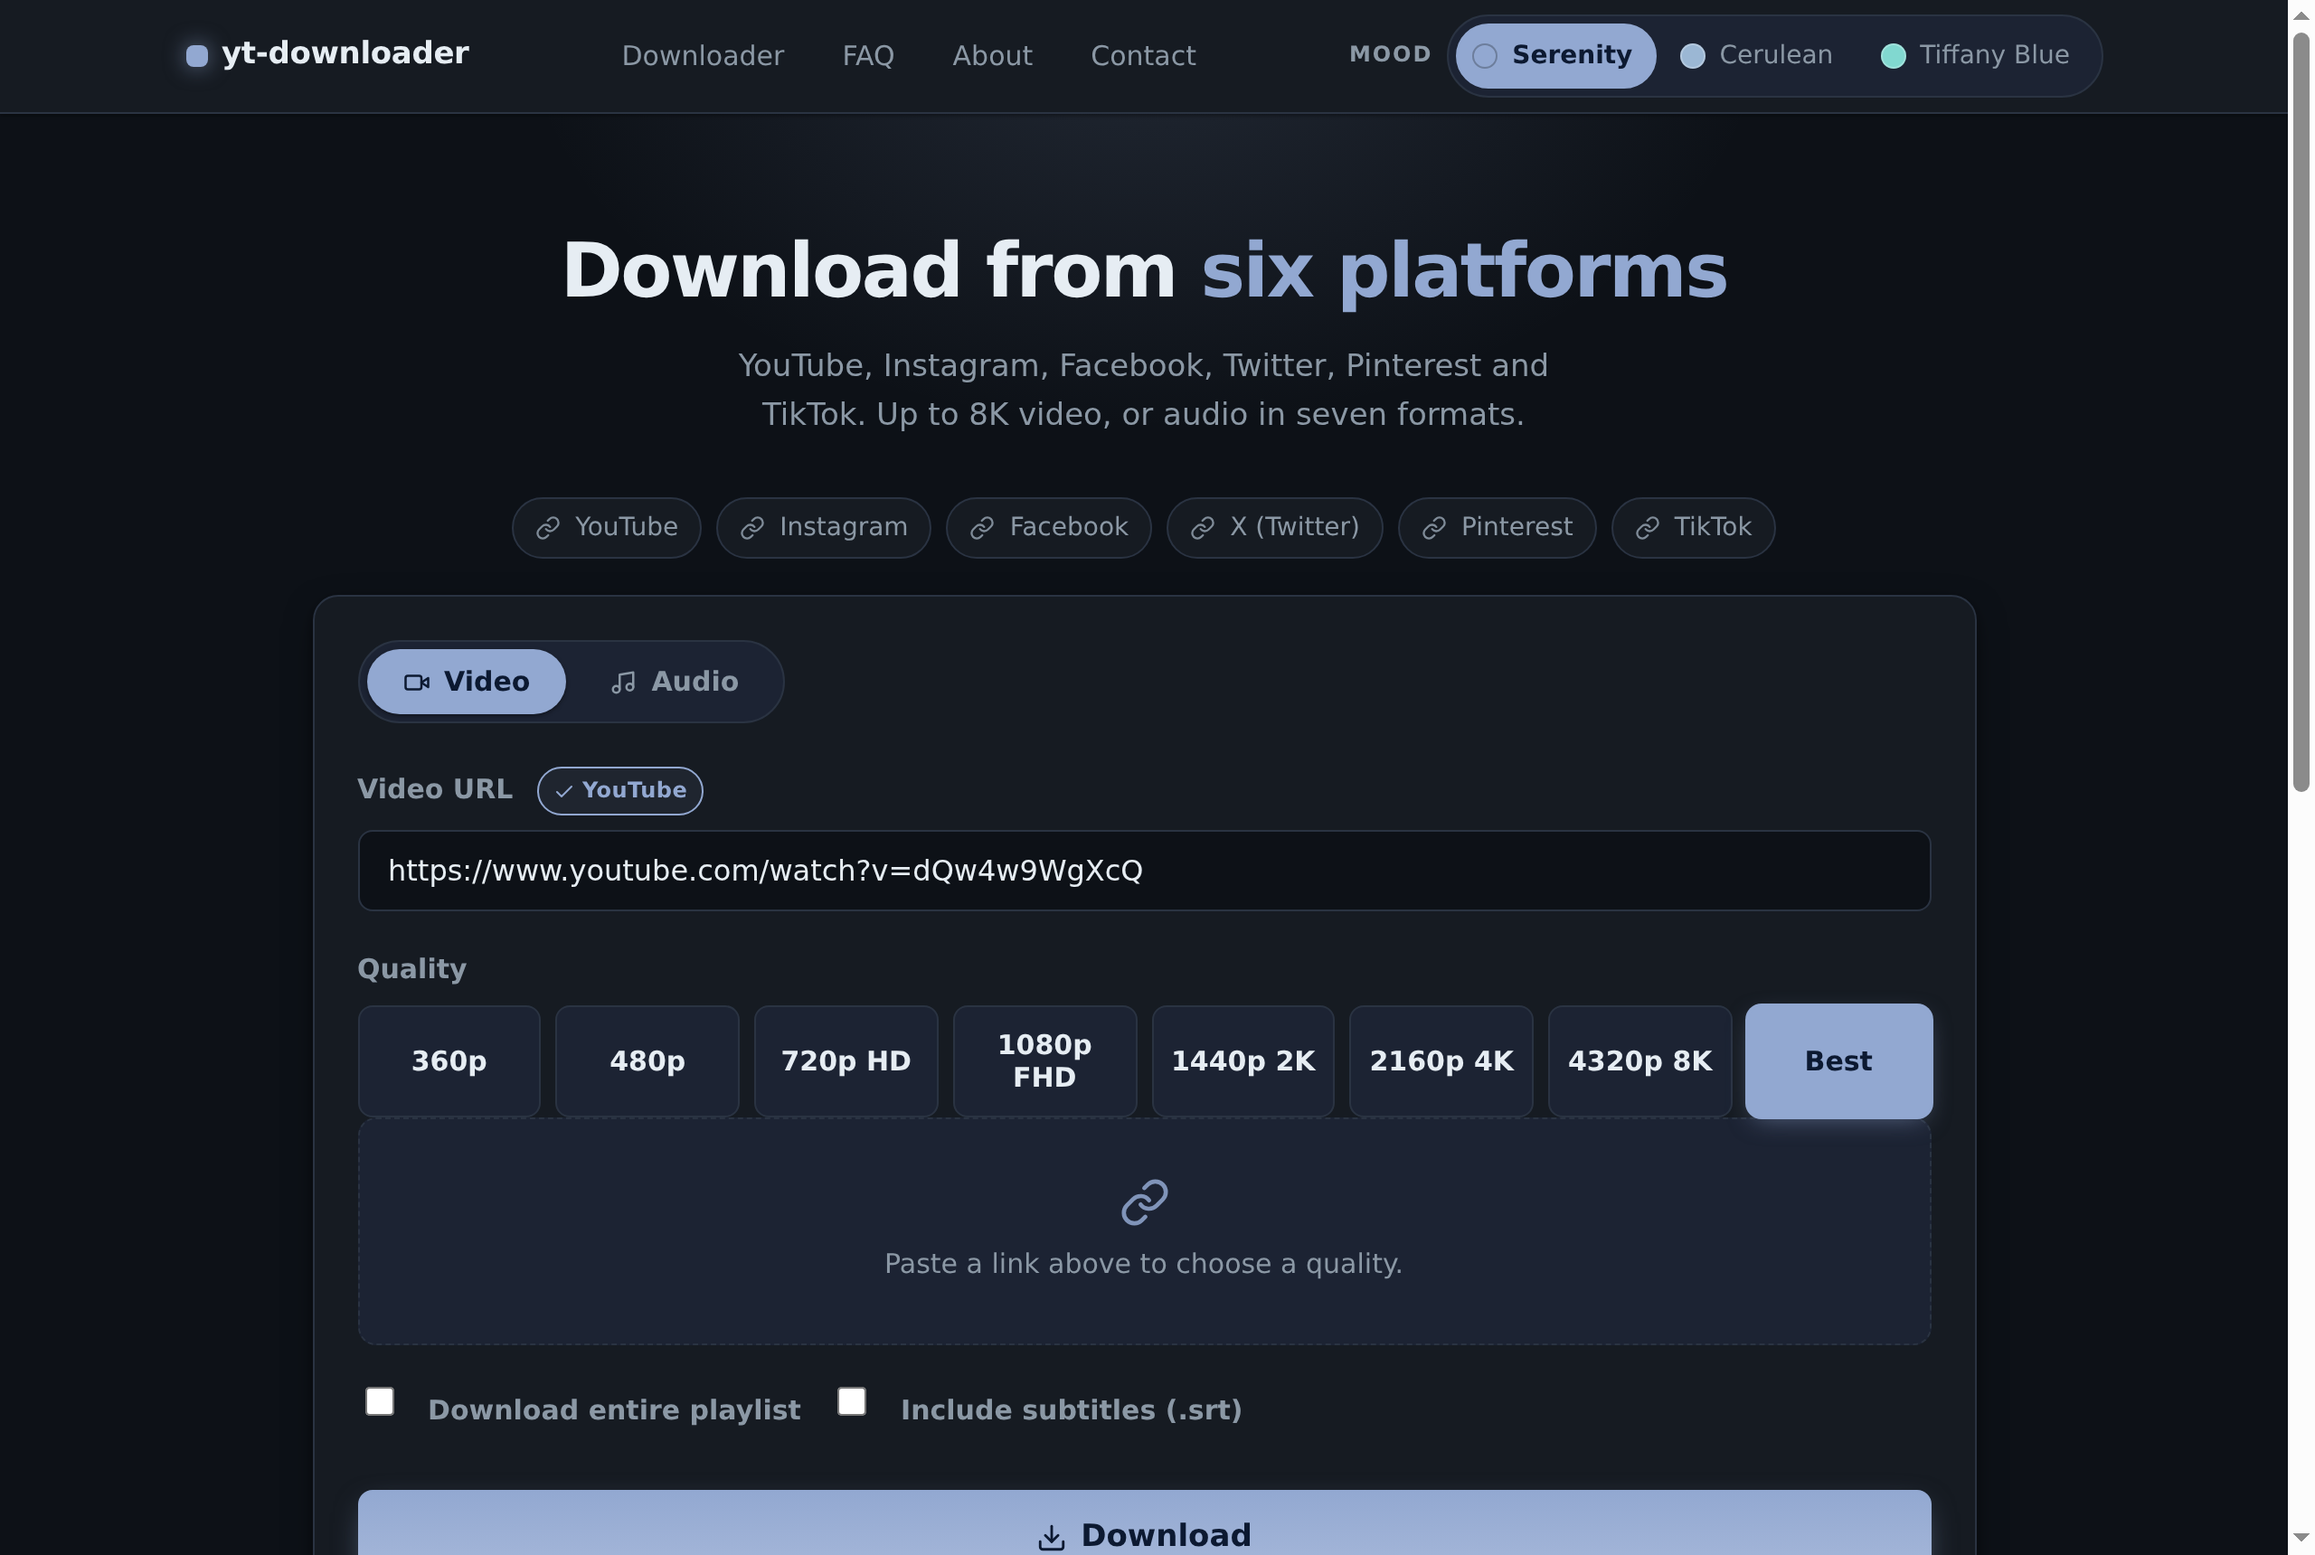
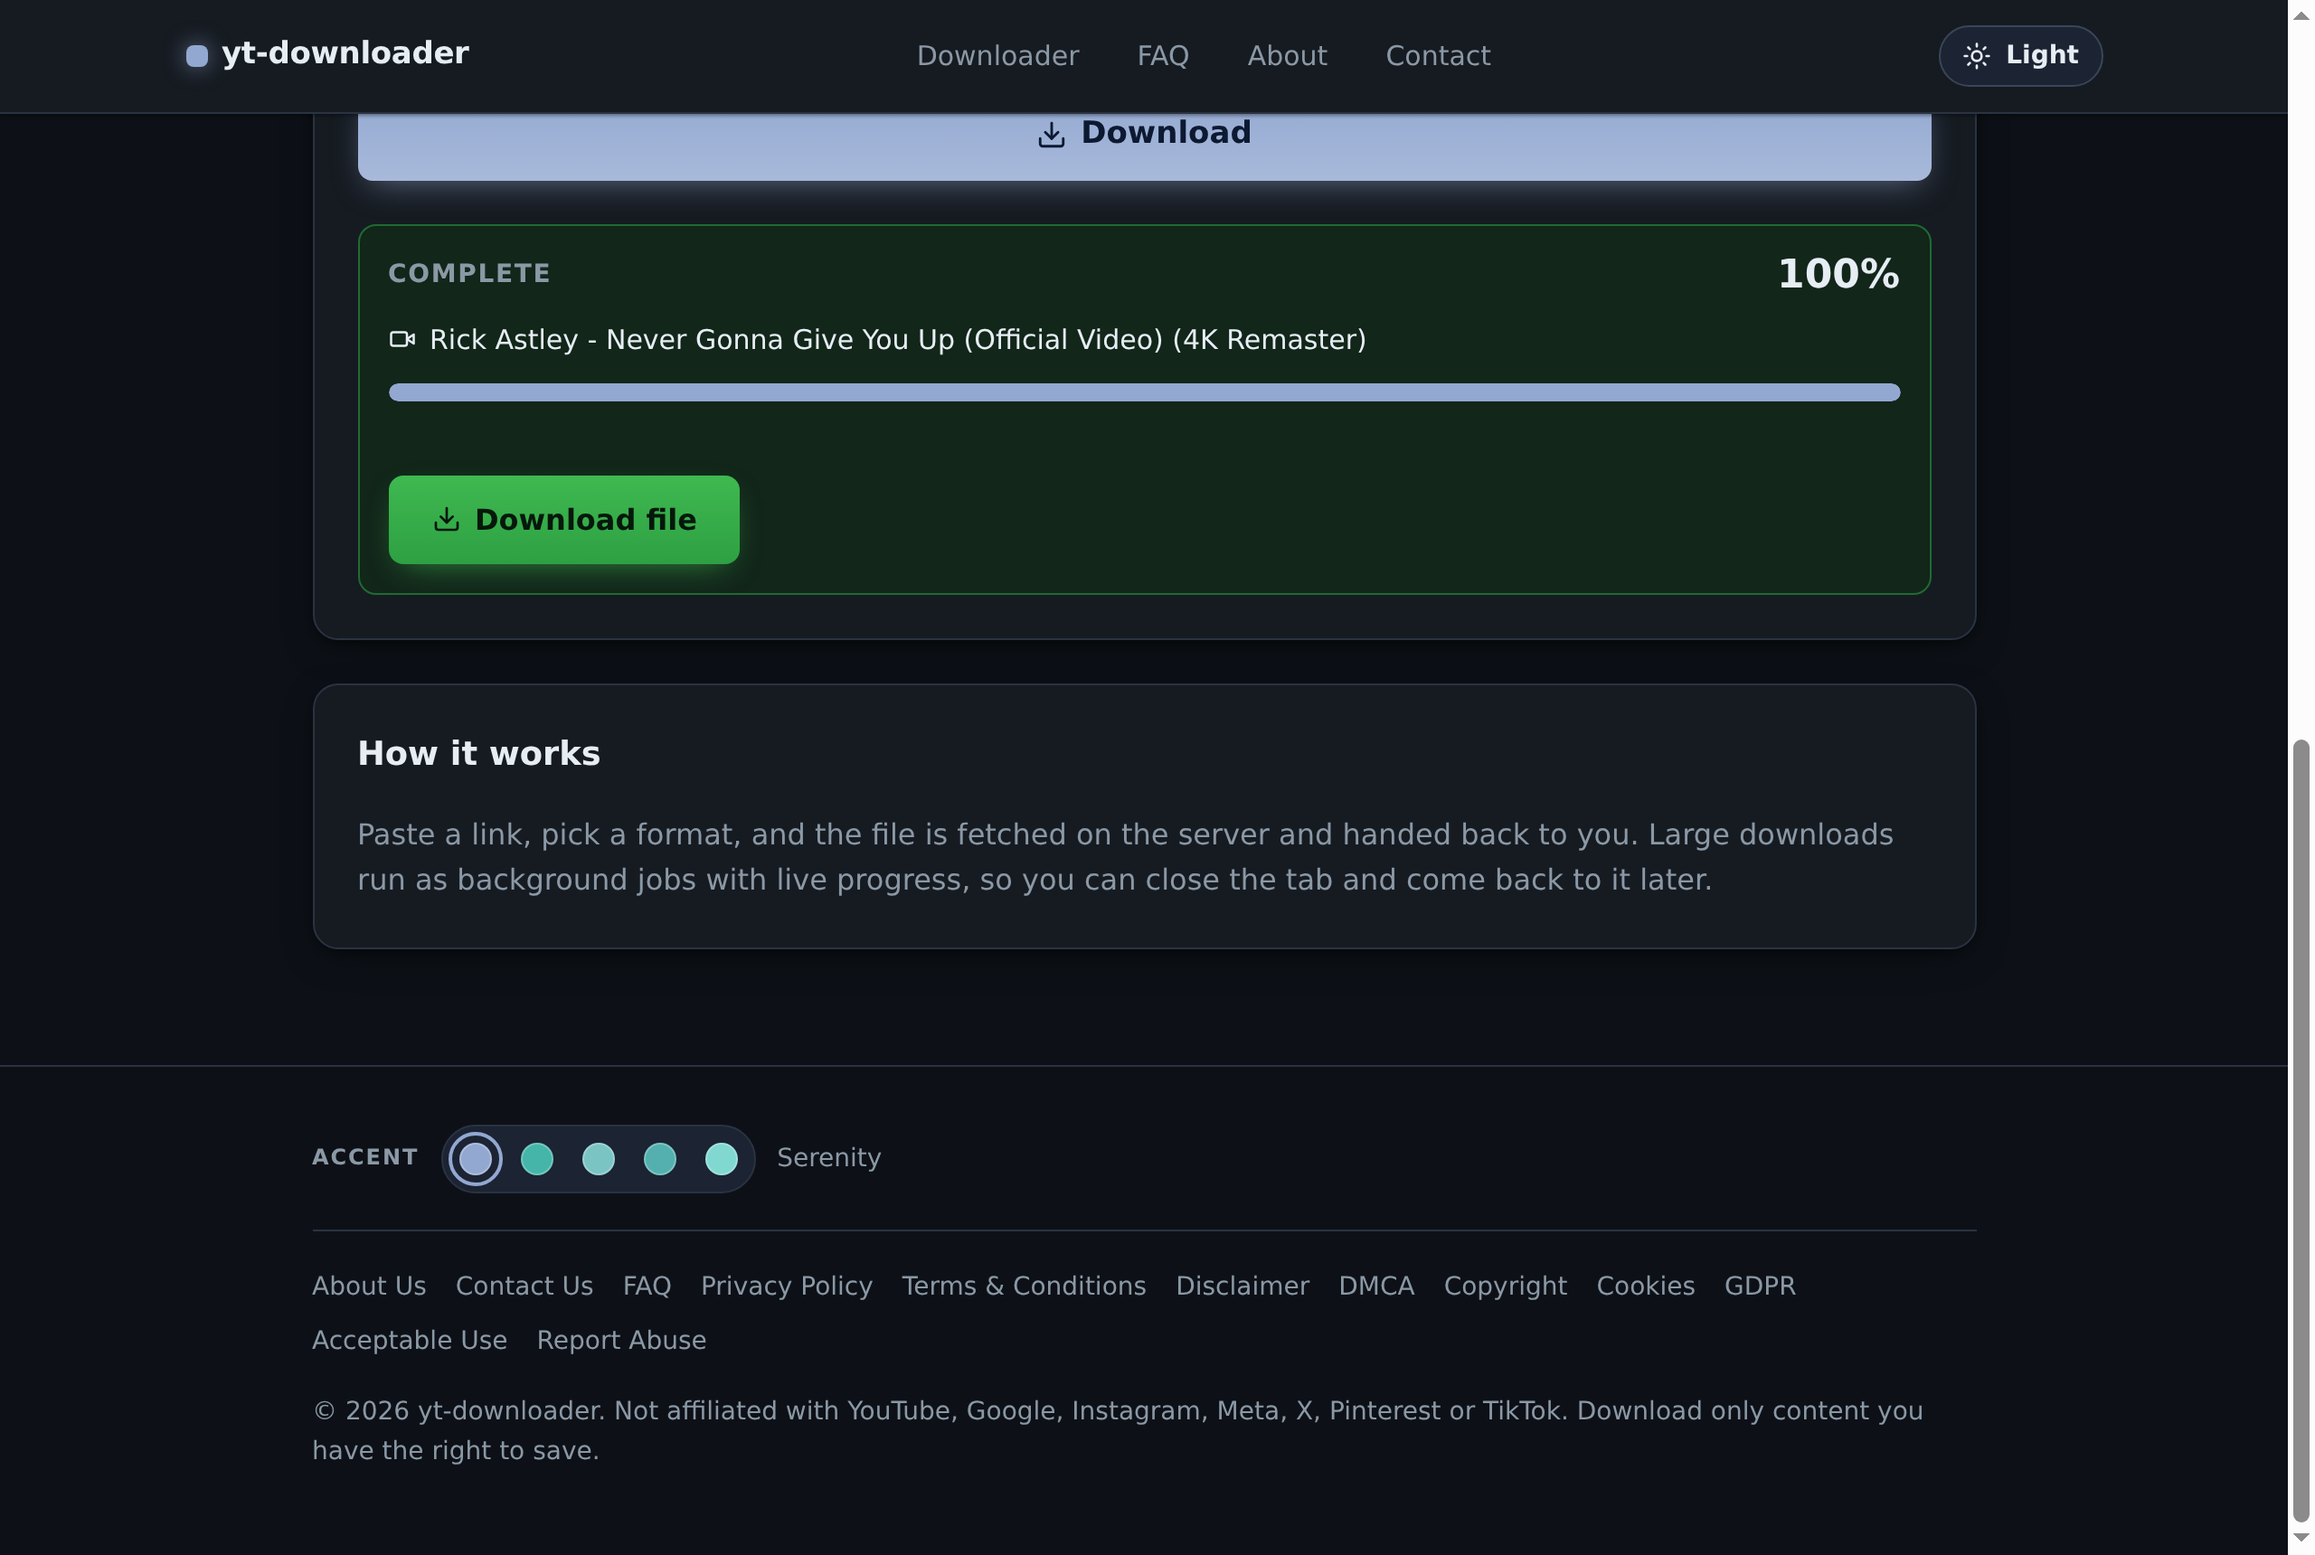
Recapture README screenshots and link the live preview
The four committed screenshots predated the ad-slot removal, the swatch
picker and the footer move, so they no longer matched the UI. Recapture
all of them at the documented 2560x1720 (1280x860 @2x) and add a fifth
showing the footer accent picker, which nothing illustrated before.

The completion shot is a genuine end-to-end run: with aria2c installed the
real Redis worker fetches the file, so the progress panel reaches
COMPLETE 100% and hands back a real /api/file/{task_id} link.

Also link the live preview URL in the intro, fix the stale 'three brand
palettes' line, and bump the test count to 146.

diff --git a/README.md b/README.md
@@ -1,7 +1,7 @@
 # YT Downloader
 
 [![CI](https://github.com/NSKWeb/yt-downloader/actions/workflows/ci.yml/badge.svg)](https://github.com/NSKWeb/yt-downloader/actions/workflows/ci.yml)
-[![Tests](https://img.shields.io/badge/tests-140%20passing-brightgreen)](backend/tests)
+[![Tests](https://img.shields.io/badge/tests-146%20passing-brightgreen)](backend/tests)
 [![Python](https://img.shields.io/badge/python-3.12-blue)](backend/requirements.txt)
 [![Licence](https://img.shields.io/badge/licence-MIT-green)](LICENSE)
 
@@ -10,11 +10,17 @@ get the file.
 
 Supported platforms: **YouTube, Instagram, Facebook, Twitter/X, Pinterest, TikTok.**
 
+**Live preview:** <https://work-1-dpivlddieshksnav.prod-runtime.all-hands.dev/>
+— the frontend with the accent picker and dark/light toggle running against the
+live API. It is an ephemeral preview host, so treat it as a demo rather than a
+stable deployment; the screenshots below are captures of the same build.
+
 ![The downloader interface, ready for a URL](docs/img/screenshot-home.png)
 
 *The home page. The Video / Audio / Image tabs are rendered from the
 platform registry, so a platform that publishes no separate audio stream never
-shows an Audio tab it cannot honour.*
+shows an Audio tab it cannot honour. The light/dark toggle sits at the top right
+of the header.*
 
 ## Contents
 
@@ -52,7 +58,9 @@ See [PLAN.md](PLAN.md) for the full feature breakdown.
 
 ## Screenshots
 
-All four are real captures of the running stack, not mockups.
+All five are real captures of the running stack, not mockups. Each was taken
+against the preview build above at a 1280x860 viewport with the default Serenity
+palette.
 
 | Platform detected | Audio options |
 |---|---|
@@ -63,18 +71,22 @@ quality grid for that platform's own ladder — a short-form platform offers up 
 1080p, YouTube up to 4320p. Right: audio mode replaces the quality grid with a
 format selector and a bitrate selector (128–320 kbps, or best available).*
 
-![A finished job with the download link](docs/img/screenshot-complete.png)
+| Accent palettes | A finished job |
+|---|---|
+| ![The footer accent picker with five colour swatches](docs/img/screenshot-palettes.png) | ![A finished job with the download link](docs/img/screenshot-complete.png) |
 
-*Completion. The task ran as a queued job; the API returned a task id
-immediately and the UI watched it. At 100% the progress bar is replaced by a
-direct link to `/api/file/{task_id}`.*
+*Left: the footer's accent picker offers all five palettes as colour swatches,
+with the current one named beside them; the light/dark toggle sits at the top
+right of the header. Right: completion. The task ran as a queued job, the API
+returned a task id immediately and the UI watched it. At 100% the progress bar
+is replaced by a direct link to `/api/file/{task_id}`.*
 
 ## Colour and accessibility
 
 Two per-visitor preferences ship, both stored in `localStorage` and applied as
 attributes on `<html>` before first paint:
 
-- **Accent** — one of three brand palettes, chosen from a picker in the footer.
+- **Accent** — one of five brand palettes, chosen from a picker in the footer.
 - **Mode** — dark or light, chosen from a toggle at the top right of the header.
 
 There are no user accounts, so there is no server-side preference to keep. A
@@ -462,7 +474,7 @@ All settings come from environment variables. See
 ```bash
 cd backend
 pip install -r requirements.txt
-python -m pytest -q      # 140 tests
+python -m pytest -q      # 146 tests
 ruff check app tests     # lint
 ```
 

diff --git a/AGENTS.md b/AGENTS.md
@@ -191,7 +191,11 @@ docker compose config --quiet   # validate before pushing
 - `docs/img/screenshot-*.png` are real captures of the running stack, taken with
   headless Chromium over the DevTools Protocol at 1280x860 with
   `deviceScaleFactor: 2`, so they land at 2560x1720. Keep that size; the README
-  lays them out side by side. To reproduce, serve the frontend (see the Redis
+  lays them out side by side. There are five: `home`, `platform-detected`,
+  `audio`, `palettes` (the footer accent picker) and `complete`. Capture them
+  with a plain viewport `Page.captureScreenshot` (no `captureBeyondViewport`),
+  scrolling each state to frame its content, so every raster comes out exactly
+  2560x1720. To reproduce, serve the frontend (see the Redis
   note below), then drive `http://127.0.0.1:12000/` with CDP: `Page.navigate`,
   `Runtime.evaluate` to set the URL input and dispatch `input`/`change`, click
   `#submit`, and `Page.captureScreenshot`. The mode toggle's buttons are built by
